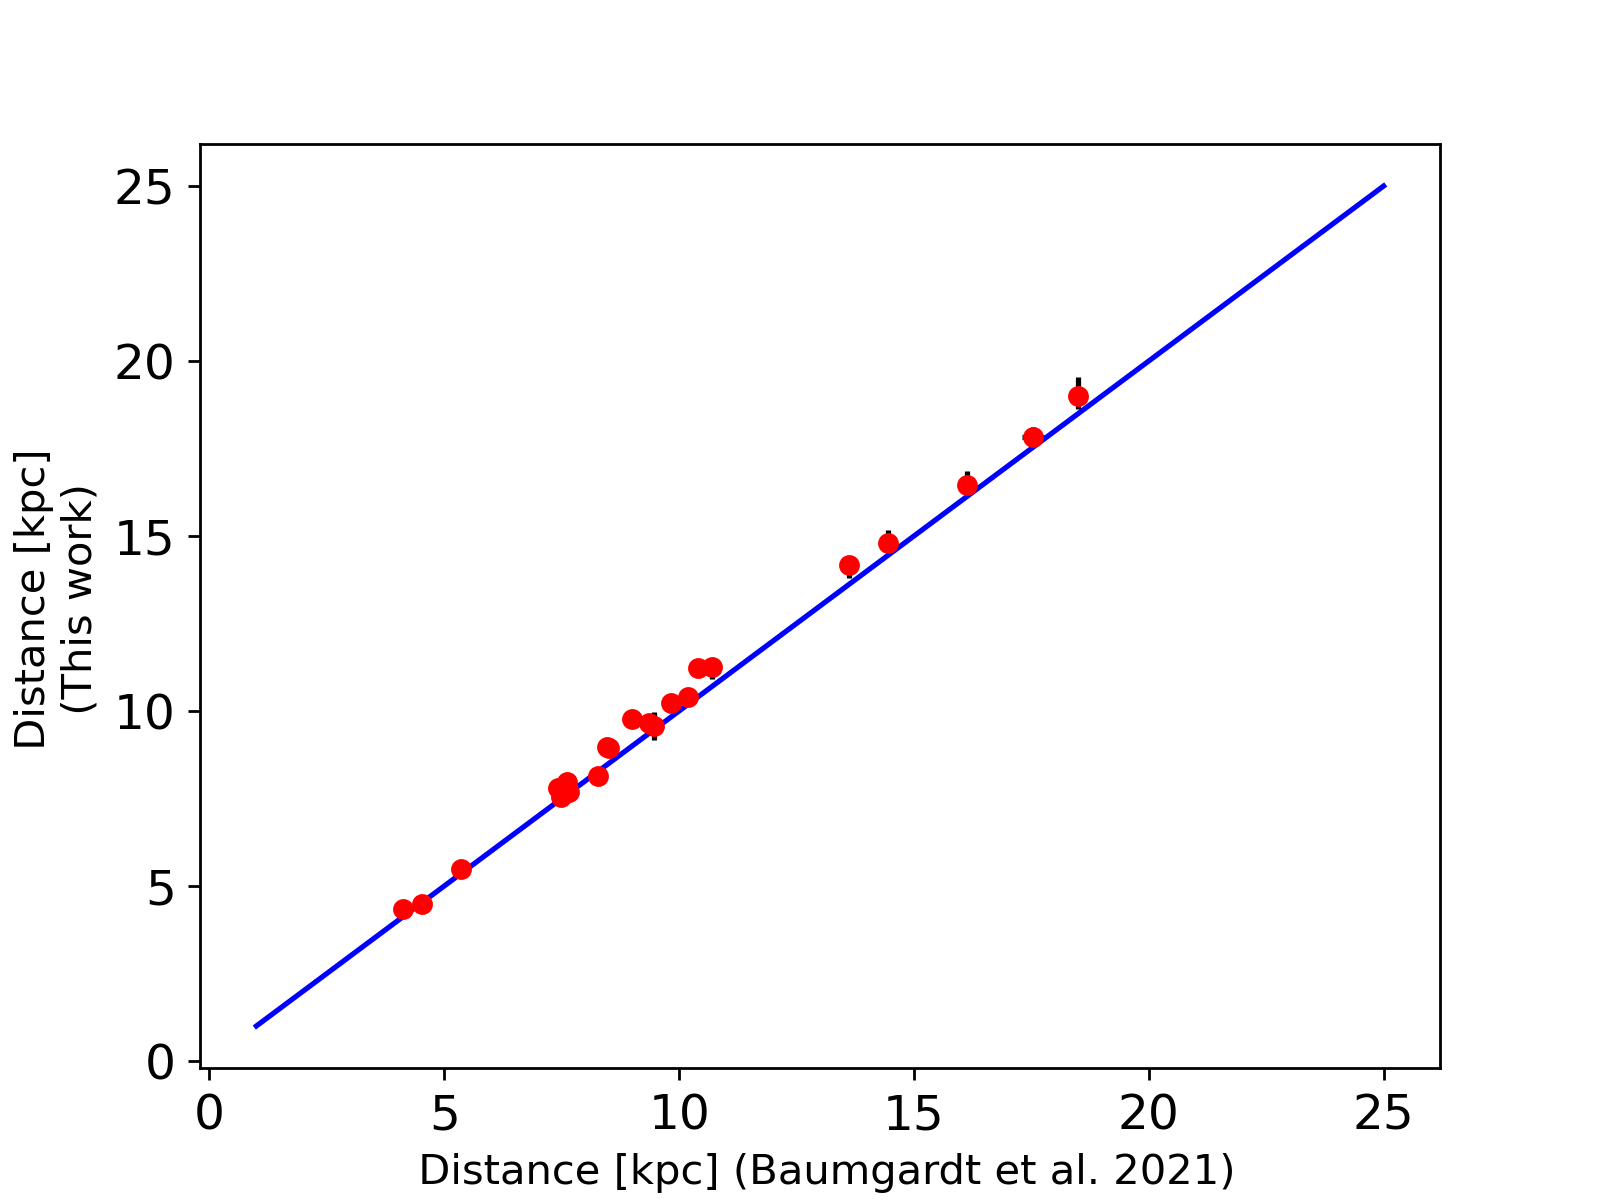
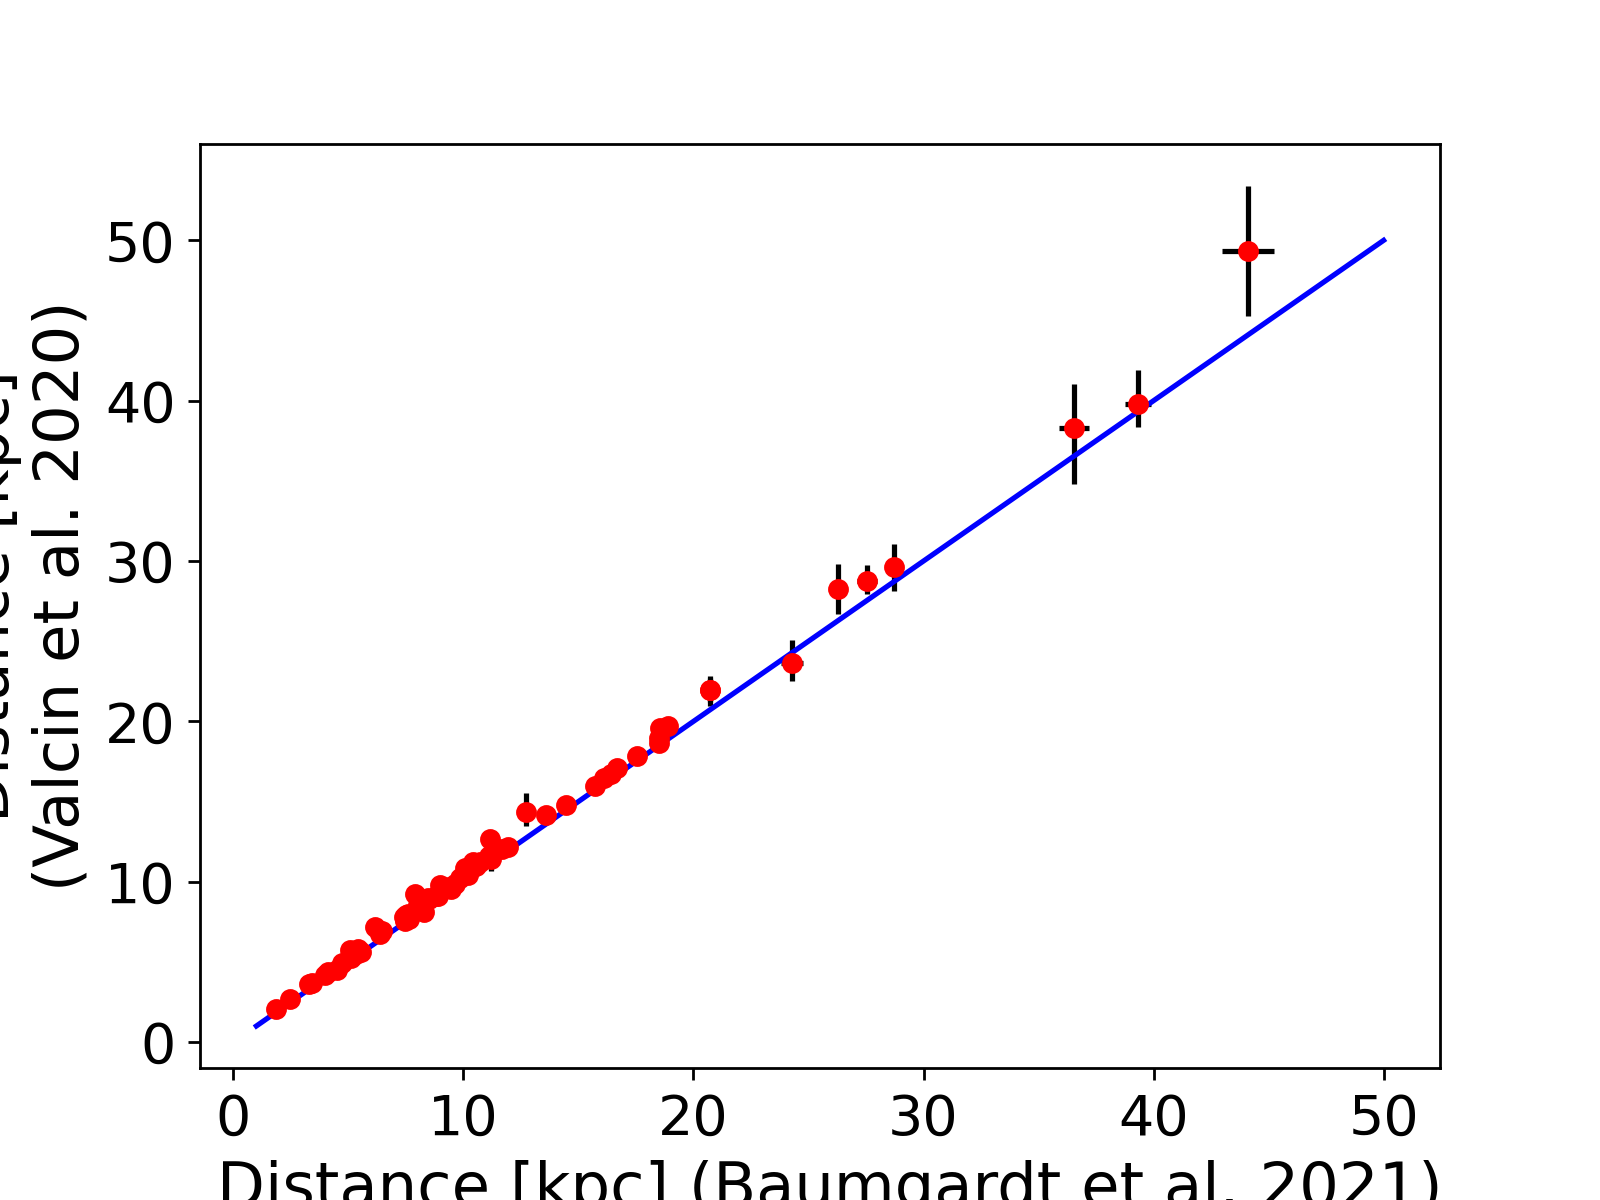
updates

diff --git a/GC_mixing_length/mesa_track.py b/GC_mixing_length/mesa_track.py
@@ -174,25 +174,28 @@ def col_teff(V, I):
 
 
 def cut(p):
-	V, R = p[:,9], p[:,10]
-	const = np.min(V-R)
-	min_pts = np.where(V-R == const)[0]
+	# ~V, R = p[:,9], p[:,10]
+	# ~const = np.min(V-R)
+	# ~min_pts = np.where(V-R == const)[0]
+	t,l = p[:,1], p[:,3]
+	const = np.min(l)
+	min_pts = np.where(l == const)[0]
 	return min_pts[0]
 
 	
 def cut2(h):
-	V = h.abs_mag_F606W
-	R = h.abs_mag_F814W
-	const = np.max(V)
-	min_pts = np.where(V == const)[0]
-	mag = V[min_pts[0]:]
-	col = V[min_pts[0]:] - R[min_pts[0]:]
-	# ~V = h.log_L
-	# ~R = h.log_Teff
-	# ~const = np.min(V)
+	# ~V = h.abs_mag_F606W
+	# ~R = h.abs_mag_F814W
+	# ~const = np.max(V)
 	# ~min_pts = np.where(V == const)[0]
 	# ~mag = V[min_pts[0]:]
-	# ~col = R[min_pts[0]:]
+	# ~col = V[min_pts[0]:] - R[min_pts[0]:]
+	V = h.log_L
+	R = h.log_Teff
+	const = np.min(V)
+	min_pts = np.where(V == const)[0]
+	mag = V[min_pts[0]:]
+	col = R[min_pts[0]:]
 	return col, mag, min_pts[0]
 
 def error_compute(dbins, histo, bhisto):
@@ -483,6 +486,7 @@ model = 'mist'
 
 
 #------------------------------------------------------------------------
+#------------------------------------------------------------------------
 if model == 'mist':
 	print(Age)
 
@@ -518,23 +522,24 @@ if model == 'mist':
 
 	#read tracks from software
 	track_75m15 = np.loadtxt('tracks/0007500M15.track.eep.cmd')
-	t1_m15 = track_75m15[:604,1]
-	l1_m15 = track_75m15[:604,3]
+	mp_75m15 = cut(track_75m15)
+	t1_m15 = track_75m15[mp_75m15:604,1]
+	l1_m15 = track_75m15[mp_75m15:604,3]
 	track_80m15 = np.loadtxt('tracks/0008000M15.track.eep.cmd')
-	t2_m15 = track_80m15[:604,1]
-	l2_m15 = track_80m15[:604,3]
+	mp_80m15 = cut(track_80m15)
+	t2_m15 = track_80m15[mp_80m15:604,1]
+	l2_m15 = track_80m15[mp_80m15:604,3]
 	track_75m20 = np.loadtxt('tracks/0007500M20.track.eep.cmd')
-	t1_m20 = track_75m20[:604,1]
-	l1_m20 = track_75m20[:604,3]
+	mp_75m20 = cut(track_75m20)
+	t1_m20 = track_75m20[mp_75m20:604,1]
+	l1_m20 = track_75m20[mp_75m20:604,3]
 	track_80m20 = np.loadtxt('tracks/0008000M20.track.eep.cmd')
-	t2_m20 = track_80m20[:604,1]
-	l2_m20 = track_80m20[:604,3]
-	# ~track_75m20 = np.loadtxt('tracks/0007500M20.track.eep.cmd')
-	# ~t1_m20 = track_75m20[:604,10]
-	# ~l1_m20 = track_75m20[:604,15]
-	# ~track_80m20 = np.loadtxt('tracks/0008000M20.track.eep.cmd')
-	# ~t2_m20 = track_80m20[:604,10]
-	# ~l2_m20 = track_80m20[:604,15]
+	mp_80m20 = cut(track_80m20)
+	t2_m20 = track_80m20[mp_80m20:604,1]
+	l2_m20 = track_80m20[mp_80m20:604,3]
+
+
+
 
 	#read isochrones from software
 	iso15 = np.loadtxt('tracks/MIST_iso_60c8b28fe9a2d.iso.cmd')
@@ -544,31 +549,24 @@ if model == 'mist':
 	t20 = iso20[:604-254,4]
 	l20 = iso20[:604-254,6]
 
-	# ~iso15 = np.loadtxt('tracks/MIST_iso_60c8b28fe9a2d.iso.cmd')
-	# ~t15 = iso15[:604-254,14] # 604-254 to stop at tip of red giant branch
-	# ~l15 = iso15[:604-254,19]
-	# ~iso20 = np.loadtxt('tracks/MIST_iso_60c8b2a6c272d.iso.cmd')
-	# ~iso20 = np.loadtxt('tracks/MIST_iso_60e3160b266d4.iso.cmd')
-	# ~t20 = iso20[:,14]
-	# ~l20 = iso20[:,19]
 
+	# ~plt.plot(t15,l15, c='c')
+	# ~plt.plot(t20,l20, c='k',label=r'MIST isochrones')
+	# ~plt.plot(t1_m15,l1_m15, c='c',linestyle=':')
+	# ~# plt.plot(t2_m15,l2_m15, c='c',linestyle='--')
+	# ~plt.plot(t1_m20,l1_m20, c='k',linestyle=':',label=r'MESA tracks')
+	# ~# plt.plot(t2_m20,l2_m20, c='k',linestyle='--',label=r'MESA tracks with $M = 0.80 M_{\odot}$')
 
-	# ~plt.plot(t15,l15,label='MIST isochrones', c='c')
-	# ~plt.plot(t20,l20, c='c')
-	# ~plt.plot(t1_m15,l1_m15,label=r'MESA tracks with $M = 0.75 M_{\odot}$', c='r',linestyle=':')
-	# ~plt.plot(t2_m15,l2_m15,label=r'MESA tracks with $M = 0.80 M_{\odot}$', c='r',linestyle='--')
-	# ~plt.plot(t1_m20,l1_m20, c='r',linestyle=':')
-	# ~plt.plot(t2_m20,l2_m20, c='r',linestyle='--')
-
-	# ~plt.text(3.70,3,r'[Fe/H] = -2.0',va='center',fontsize=12,alpha=1.)
-	# ~plt.text(3.65,2.3,r'[Fe/H] = -1.5',va='center',fontsize=12,alpha=1.)
+	# ~plt.text(3.70,3,r'[Fe/H] = -2.0',va='center',fontsize=24,alpha=1.)
+	# ~plt.text(3.65,2.3,r'[Fe/H] = -1.5',va='center',fontsize=24,alpha=1.,c='c')
 	# ~plt.xlim(3.6,3.85)
 	# ~plt.ylim(-0.5,3.5)
-	# ~plt.xlabel(r'Log $\rm T_{eff}$', fontsize=16)
-	# ~plt.ylabel(r'Log L/$\rm L_{\odot}$', fontsize=16)
+	# ~plt.xlabel(r'Log $\rm T_{eff}$', fontsize=22)
+	# ~plt.ylabel(r'Log L/$\rm L_{\odot}$', fontsize=22)
 	# ~plt.gca().invert_xaxis()
-	# ~plt.legend(loc='best')
-	# ~plt.axhline(0.18, linestyle ='--', label=r'$\rm Magnitude \: cut \: \mathcal{M}_1$', c='k')
+	# ~plt.legend(loc='best', fontsize=22)
+	# ~# plt.axhline(0.18, linestyle ='--', label=r'$\rm Magnitude \: cut \: \mathcal{M}_1$', c='k')
+	# ~plt.tick_params(labelsize=20)
 	# ~plt.show()
 	# ~plt.close()
 	# ~kill
@@ -576,37 +574,40 @@ if model == 'mist':
 	#read mesa history files (a = 1.82)
 	# ~ht = mr.MesaData('/home/david/codes/Analysis/GC_mixing_length/catalogs/'+string_mass+'/'+string_met+'/history_mist_fid.data')
 	ht = mr.MesaData('/home/david/codes/data/GC_mixing_length/initial_mesa_dir/LOGS/history_mist_fid.data')
-	coltest,magtest, mptest = cut2(ht)
-	# ~h5 = mr.MesaData('/home/david/codes/data/GC_mixing_length/initial_mesa_dir/LOGS/history_a177.data')
-	# ~h6 = mr.MesaData('/home/david/codes/data/GC_mixing_length/initial_mesa_dir/LOGS/history_a187.data')
-	# ~h7 = mr.MesaData('/home/david/codes/data/GC_mixing_length/initial_mesa_dir/LOGS/history_a172.data')
-	# ~h8 = mr.MesaData('/home/david/codes/data/GC_mixing_length/initial_mesa_dir/LOGS/history_a192.data')
+	h5 = mr.MesaData('/home/david/codes/data/GC_mixing_length/initial_mesa_dir/LOGS/history_a177.data')
+	h6 = mr.MesaData('/home/david/codes/data/GC_mixing_length/initial_mesa_dir/LOGS/history_a187.data')
+	h7 = mr.MesaData('/home/david/codes/data/GC_mixing_length/initial_mesa_dir/LOGS/history_a172.data')
+	h8 = mr.MesaData('/home/david/codes/data/GC_mixing_length/initial_mesa_dir/LOGS/history_a192.data')
+	ct,mt, mpt = cut2(ht)
+	c5,m5, mp5 = cut2(h5)
+	c6,m6, mp6 = cut2(h6)
+	c7,m7, mp7 = cut2(h7)
+	c8,m8, mp8 = cut2(h8)
 
-	plt.plot(ht.log_Teff, ht.log_L)
-	# ~plt.plot(h5.log_Teff, h5.log_L, label=r'$\rm \Delta_{\alpha} = 0.05$', c='c')
-	# ~plt.plot(h6.log_Teff, h6.log_L, c='c', linestyle='--')
-	# ~plt.plot(h7.log_Teff, h7.log_L, label=r'$\rm \Delta_{\alpha} = 0.1$', c='m')
-	# ~plt.plot(h8.log_Teff, h8.log_L, c='c')
-
-	# ~plt.plot(t20,l20, c='k')
-	plt.plot(t1_m20,l1_m20, c='r',linestyle=':')
+	plt.plot(t20,l20,label=r'MIST isochrones', c='k')
+	# ~plt.plot(t1_m20,l1_m20,label=r'MESA tracks with $M = 0.75 M_{\odot}$', c='r',linestyle=':')
 	# ~plt.plot(t2_m20,l2_m20, c='r',linestyle='--')
-	# ~plt.plot(t20-l20,t20, c='k')
-	# ~plt.plot(t1_m20-l1_m20,t1_m20, c='r',linestyle=':')
-	# ~plt.plot(t2_m20-l2_m20,t2_m20, c='r',linestyle='--')
 
-	plt.xlim(3.6,3.85)
-	plt.ylim(-0.5,3.5)
-	plt.xlabel(r'Log $\rm T_{eff}$', fontsize=16)
-	plt.ylabel(r'Log L/$\rm L_{\odot}$', fontsize=16)
+	plt.plot(ct, mt,label=r'MESA tracks', c='k',linestyle=':')
+	plt.plot(c5, m5, label=r'$\rm \Delta_{\alpha} = 0.05$', c='r')
+	plt.plot(c6, m6, c='r')
+	plt.plot(c7, m7, label=r'$\rm \Delta_{\alpha} = 0.1$', c='c')
+	plt.plot(c8, m8, c='c')
+	# ~plt.xlim(3.6,3.85)
+	# ~plt.ylim(-0.5,3.5)
+	plt.xlim(3.62,3.72)
+	plt.ylim(1.8,3.5)
+	plt.xlabel(r'Log $\rm T_{eff}$', fontsize=24)
+	plt.ylabel(r'Log L/$\rm L_{\odot}$', fontsize=24)
 	# ~plt.axhline(0.18, linestyle ='--', label=r'$\rm Magnitude \: cut \: \mathcal{M}_1$', c='k')
-	# ~plt.gca().invert_yaxis()
 	plt.gca().invert_xaxis()
-	plt.legend(loc='best')
+	plt.tick_params(labelsize=20)
+	plt.legend(loc='best', fontsize=22)
 	plt.show()
 	plt.close()
 	kill
 
+#-----------------------------------------------------------------------
 #-----------------------------------------------------------------------
 if model == 'dar':
 	afe_init = 0.
@@ -656,17 +657,21 @@ if model == 'dar':
 
 	#read tracks from software
 	track_75m15 = np.loadtxt('tracks/m075fehm15afep0.hst_acs')
-	t1_m15 = track_75m15[:,1]
-	l1_m15 = track_75m15[:,3]
+	mp_75m15 = cut(track_75m15)
+	t1_m15 = track_75m15[mp_75m15:,1]
+	l1_m15 = track_75m15[mp_75m15:,3]
 	track_80m15 = np.loadtxt('tracks/m080fehm15afep0.hst_acs')
-	t2_m15 = track_80m15[:,1]
-	l2_m15 = track_80m15[:,3]
+	mp_80m15 = cut(track_80m15)
+	t2_m15 = track_80m15[mp_80m15:,1]
+	l2_m15 = track_80m15[mp_80m15:,3]
 	track_75m20 = np.loadtxt('tracks/m075fehm20afep0.hst_acs')
-	t1_m20 = track_75m20[:,1]
-	l1_m20 = track_75m20[:,3]
+	mp_75m20 = cut(track_75m20)
+	t1_m20 = track_75m20[mp_75m20:,1]
+	l1_m20 = track_75m20[mp_75m20:,3]
 	track_80m20 = np.loadtxt('tracks/m080fehm20afep0.hst_acs')
-	t2_m20 = track_80m20[:,1]
-	l2_m20 = track_80m20[:,3]
+	mp_80m20 = cut(track_80m20)
+	t2_m20 = track_80m20[mp_80m20:,1]
+	l2_m20 = track_80m20[mp_80m20:,3]
 
 	#read isochrones from software
 	iso15 = np.loadtxt('tracks/tmp1623689984.iso')
@@ -680,28 +685,29 @@ if model == 'dar':
 	# ~l20 = iso20[:,15]
 
 
-	# ~plt.plot(t15,l15,label='DSED isochrones', c='c')
-	plt.plot(t20,l20, c='c')
+	plt.plot(t15,l15, c='c')
+	plt.plot(t20,l20, c='k',label=r'DSED isochrones')
 	# ~plt.plot(t20 - l20,t20, c='r')
 
-	# ~plt.plot(t1_m15,l1_m15,label=r'DSEP tracks with $M = 0.75 M_{\odot}$', c='r',linestyle=':')
-	# ~plt.plot(t2_m15,l2_m15,label=r'DSEP tracks with $M = 0.80 M_{\odot}$', c='r',linestyle='--')
-	# ~plt.plot(t1_m20,l1_m20, c='r',linestyle=':')
-	# ~plt.plot(t2_m20,l2_m20, c='r',linestyle='--')
+	plt.plot(t1_m15,l1_m15, c='c',linestyle=':')
+	# ~plt.plot(t2_m15,l2_m15, c='c',linestyle='--')
+	plt.plot(t1_m20,l1_m20, c='k',linestyle=':',label=r'DSEP tracks')
+	# ~plt.plot(t2_m20,l2_m20, c='k',linestyle='--',label=r'DSEP tracks with $M = 0.80 M_{\odot}$')
 
 
 	# ~plt.plot(Color_iso2,mag_v2, c='k',linestyle=':', label=r'DSED Isochrone')
 	# ~plt.plot(Color_iso3,mag_v3, c='r',linestyle=':')
-	plt.plot(Color_iso1,mag_v1, c='c',linestyle=':')
+	# ~plt.plot(Color_iso1,mag_v1, c='c',linestyle=':')
 	plt.xlim(3.6,3.85)
 	plt.ylim(-0.5,3.5)
-	plt.xlabel(r'Log $\rm T_{eff}$', fontsize=16)
-	plt.ylabel(r'Log L/$\rm L_{\odot}$', fontsize=16)
-	plt.text(3.70,3,r'[Fe/H] = -2.0',va='center',fontsize=12,alpha=1.)
-	plt.text(3.65,2.3,r'[Fe/H] = -1.5',va='center',fontsize=12,alpha=1.)
-	plt.axhline(0.18, linestyle ='--', label=r'$\rm Magnitude \: cut \: \mathcal{M}_1$', c='k')
+	plt.xlabel(r'Log $\rm T_{eff}$', fontsize=24)
+	plt.ylabel(r'Log L/$\rm L_{\odot}$', fontsize=24)
+	plt.text(3.70,3,r'[Fe/H] = -2.0',va='center',fontsize=22,alpha=1.)
+	plt.text(3.65,2.3,r'[Fe/H] = -1.5',va='center',fontsize=22,alpha=1., c='c')
+	# ~plt.axhline(0.18, linestyle ='--', label=r'$\rm Magnitude \: cut \: \mathcal{M}_1$', c='k')
 	plt.gca().invert_xaxis()
-	plt.legend(loc='best')
+	plt.legend(loc='best', fontsize=22)
+	plt.tick_params(labelsize=20)
 	plt.show()
 	plt.close()
 	kill

diff --git a/GC_mixing_length/dist_comp.py b/GC_mixing_length/dist_comp.py
@@ -114,16 +114,16 @@ omalley = np.loadtxt('omalley.txt')
 
 
 n= len(distbaum)
-x = np.linspace(1,25,20)
-plt.errorbar(distbaum[(omalley[:,5]).astype(int)], distance_fin_dar[(omalley[:,5]).astype(int)] /1000., yerr =[distance_fin_dar[(omalley[:,5]).astype(int)] /1000. - distance_low_dar[(omalley[:,5]).astype(int)] /1000.,
-distance_high_dar[(omalley[:,5]).astype(int)] /1000. - distance_fin_dar[(omalley[:,5]).astype(int)] /1000.], xerr = distbaumerr[(omalley[:,5]).astype(int)],color='r', fmt='o', ecolor='k', markersize=5, label='Distance/kpc')
-# ~x = np.linspace(1,50,20)
-# ~plt.errorbar(distbaum, distance_fin_dar /1000., yerr =[distance_fin_dar /1000. - distance_low_dar /1000.,
-# ~distance_high_dar /1000. - distance_fin_dar /1000.], xerr = distbaumerr,color='r', fmt='o', ecolor='k', markersize=5, label='Distance/kpc')
+# ~x = np.linspace(1,25,20)
+# ~plt.errorbar(distbaum[(omalley[:,5]).astype(int)], distance_fin_dar[(omalley[:,5]).astype(int)] /1000., yerr =[distance_fin_dar[(omalley[:,5]).astype(int)] /1000. - distance_low_dar[(omalley[:,5]).astype(int)] /1000.,
+# ~distance_high_dar[(omalley[:,5]).astype(int)] /1000. - distance_fin_dar[(omalley[:,5]).astype(int)] /1000.], xerr = distbaumerr[(omalley[:,5]).astype(int)],color='r', fmt='o', ecolor='k', markersize=5, label='Distance/kpc')
+x = np.linspace(1,50,20)
+plt.errorbar(distbaum, distance_fin_dar /1000., yerr =[distance_fin_dar /1000. - distance_low_dar /1000.,
+distance_high_dar /1000. - distance_fin_dar /1000.], xerr = distbaumerr,color='r', fmt='o', ecolor='k', markersize=5, label='Distance/kpc')
 plt.plot(x,x, c='b', label='x = y')
-plt.xlabel(' Distance [kpc] (Baumgardt et al. 2021)', fontsize=12)
-plt.ylabel(r' Distance [kpc]' "\n" r' (Valcin et al. 2020)', fontsize=12)
-plt.tick_params(labelsize=14)
+plt.xlabel(' Distance [kpc] (Baumgardt et al. 2021)', fontsize=18)
+plt.ylabel(r' Distance [kpc]' "\n" r' (Valcin et al. 2020)', fontsize=18)
+plt.tick_params(labelsize=16)
 plt.savefig('/home/david/codes/Analysis/GC/plots/analysis/param_comparison.png', orientation='portrait', dpi=250)
 plt.subplots_adjust(hspace=1.8, wspace=1.0, top=0.95)
 plt.show()
